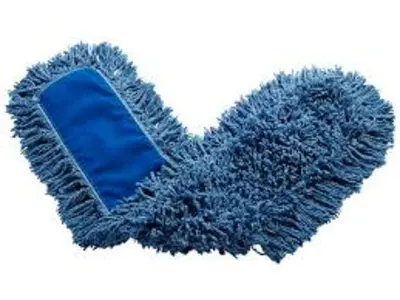
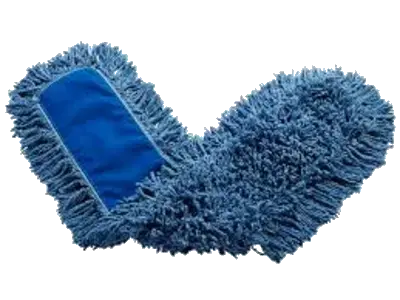
fix: fondo blanco uniforme en zona de imagen de productos
- Zona de imagen ahora tiene fondo blanco (bg-white) en todas las categorías
- Fotos restauradas desde originales (sin transparencia dañina)
- Aspecto limpio tipo catálogo profesional

diff --git a/src/pages/Productos.tsx b/src/pages/Productos.tsx
@@ -228,7 +228,7 @@ const Productos = () => {
                 <ScrollReveal key={`${currentCategory.name}-${index}`} delay={index * 80}>
                 <Card className="border border-[hsl(var(--primary)/0.08)] hover:border-accent/30 hover:shadow-lg transition-all duration-300 group bg-card overflow-hidden">
                   {/* Product image or placeholder */}
-                  <div className={`h-44 ${bgLightMap[currentCategory.color]} flex items-center justify-center relative overflow-hidden`}>
+                  <div className="h-44 bg-white flex items-center justify-center relative overflow-hidden rounded-t-lg">
                     {product.image ? (
                       <img 
                         src={product.image} 
